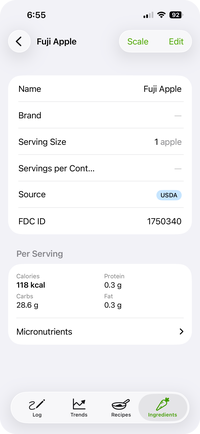
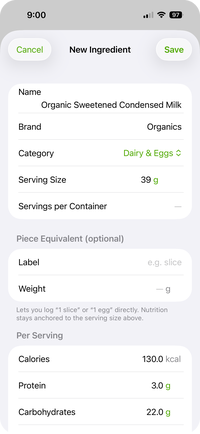
Sync: categories surfaced + refreshed ingredient screenshots
Mirrors the source-repo commit on the private side. README gains the
"Organized like a kitchen" bullet, the Mac section copy emphasizes
the multi-sort sidebar, and the Ingredients copy mentions auto-fill
from scans. Both ingredient.png and macOS_ingredient.png replaced
with current captures showing the Category row populated.

diff --git a/README.md b/README.md
@@ -10,6 +10,7 @@ If you make most of your food from real ingredients and you've spent ten minutes
 - **Scan a barcode.** Point your camera at a product barcode and the app looks it up instantly.
 - **Scan a nutrition label.** No barcode? Photograph the nutrition facts panel and the app reads it.
 - **Search 400,000+ foods.** Need something niche? The full USDA FoodData Central database is a tap away.
+- **Organized like a kitchen.** Your library auto-groups into Fruits, Vegetables, Dairy & Eggs, Sweets, and more — fifteen buckets that match how you actually shop. USDA seed items and barcode-scanned products land in the right place automatically.
 - **Enter it yourself.** For anything else, add an ingredient manually with your own nutrition data.
 - **Cook a recipe once, log it forever.** Build a recipe out of ingredients, and every time you eat it, log it as one tap.
 - **See your day at a glance.** Calories, protein, carbs, fat, plus the micronutrients you actually care about — all on one screen.
@@ -57,11 +58,11 @@ When you log a recipe as a meal, it captures a snapshot of the nutrition at that
 <br clear="both">
 <br>
 
-<img align="right" width="200" hspace="16" src="screenshots/ingredient.png" alt="Ingredient detail"><img align="right" width="200" hspace="16" src="screenshots/barcode_scanner.png" alt="Barcode scanner">
+<img align="right" width="200" hspace="16" src="screenshots/ingredient.png" alt="New ingredient editor with category prefilled from a barcode scan"><img align="right" width="200" hspace="16" src="screenshots/barcode_scanner.png" alt="Barcode scanner">
 
 ### Ingredients
 
-Your pantry. Scan a barcode, photograph a nutrition label, search the USDA database, or add one by hand — every ingredient lives here with its full nutrition breakdown.
+Your pantry. Scan a barcode, photograph a nutrition label, search the USDA database, or add one by hand — every ingredient lives here with its full nutrition breakdown. Scanned products arrive pre-filled, including the right category, so most of the time you just glance and save.
 
 <br clear="both">
 
@@ -113,9 +114,9 @@ These are split because they're useful independently. You might want to publish 
 
 ## Works on Mac, too
 
-<img align="right" width="400" hspace="16" src="screenshots/macOS_ingredient.png" alt="macOS ingredient split view">
+<img align="right" width="400" hspace="16" src="screenshots/macOS_ingredient.png" alt="macOS ingredient list sorted by category, split view">
 
-DailyRation runs natively on macOS 14+. Ingredients, recipes, and meal logs are the same data on both platforms — edit on your Mac, log on your phone, or the other way around. The macOS version uses a split-view layout with full keyboard support.
+DailyRation runs natively on macOS 14+. Ingredients, recipes, and meal logs are the same data on both platforms — edit a recipe on your Mac, log it from your phone. The split-view layout turns the macOS app into a real kitchen reference: sort the sidebar by category, source, or name; see full nutrition on the right. Arrow-key navigation throughout.
 
 <br clear="both">
 
